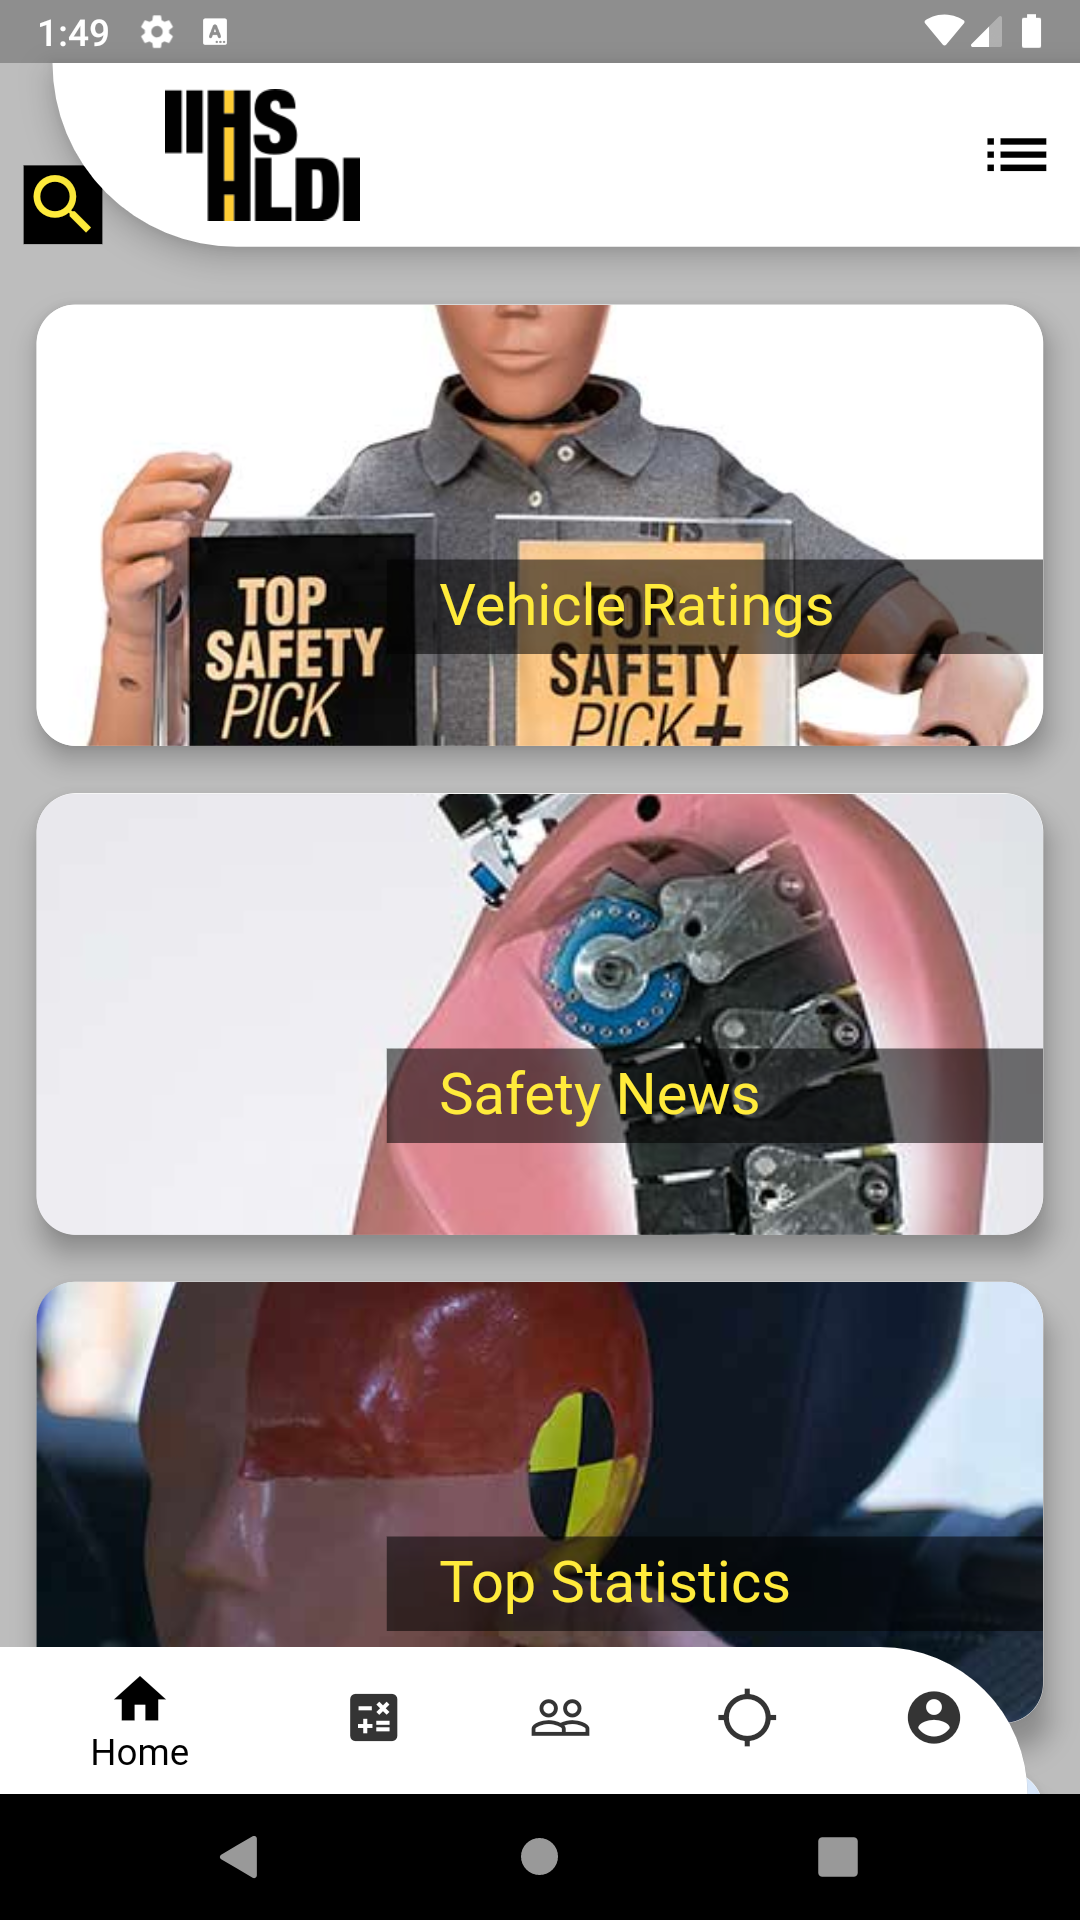
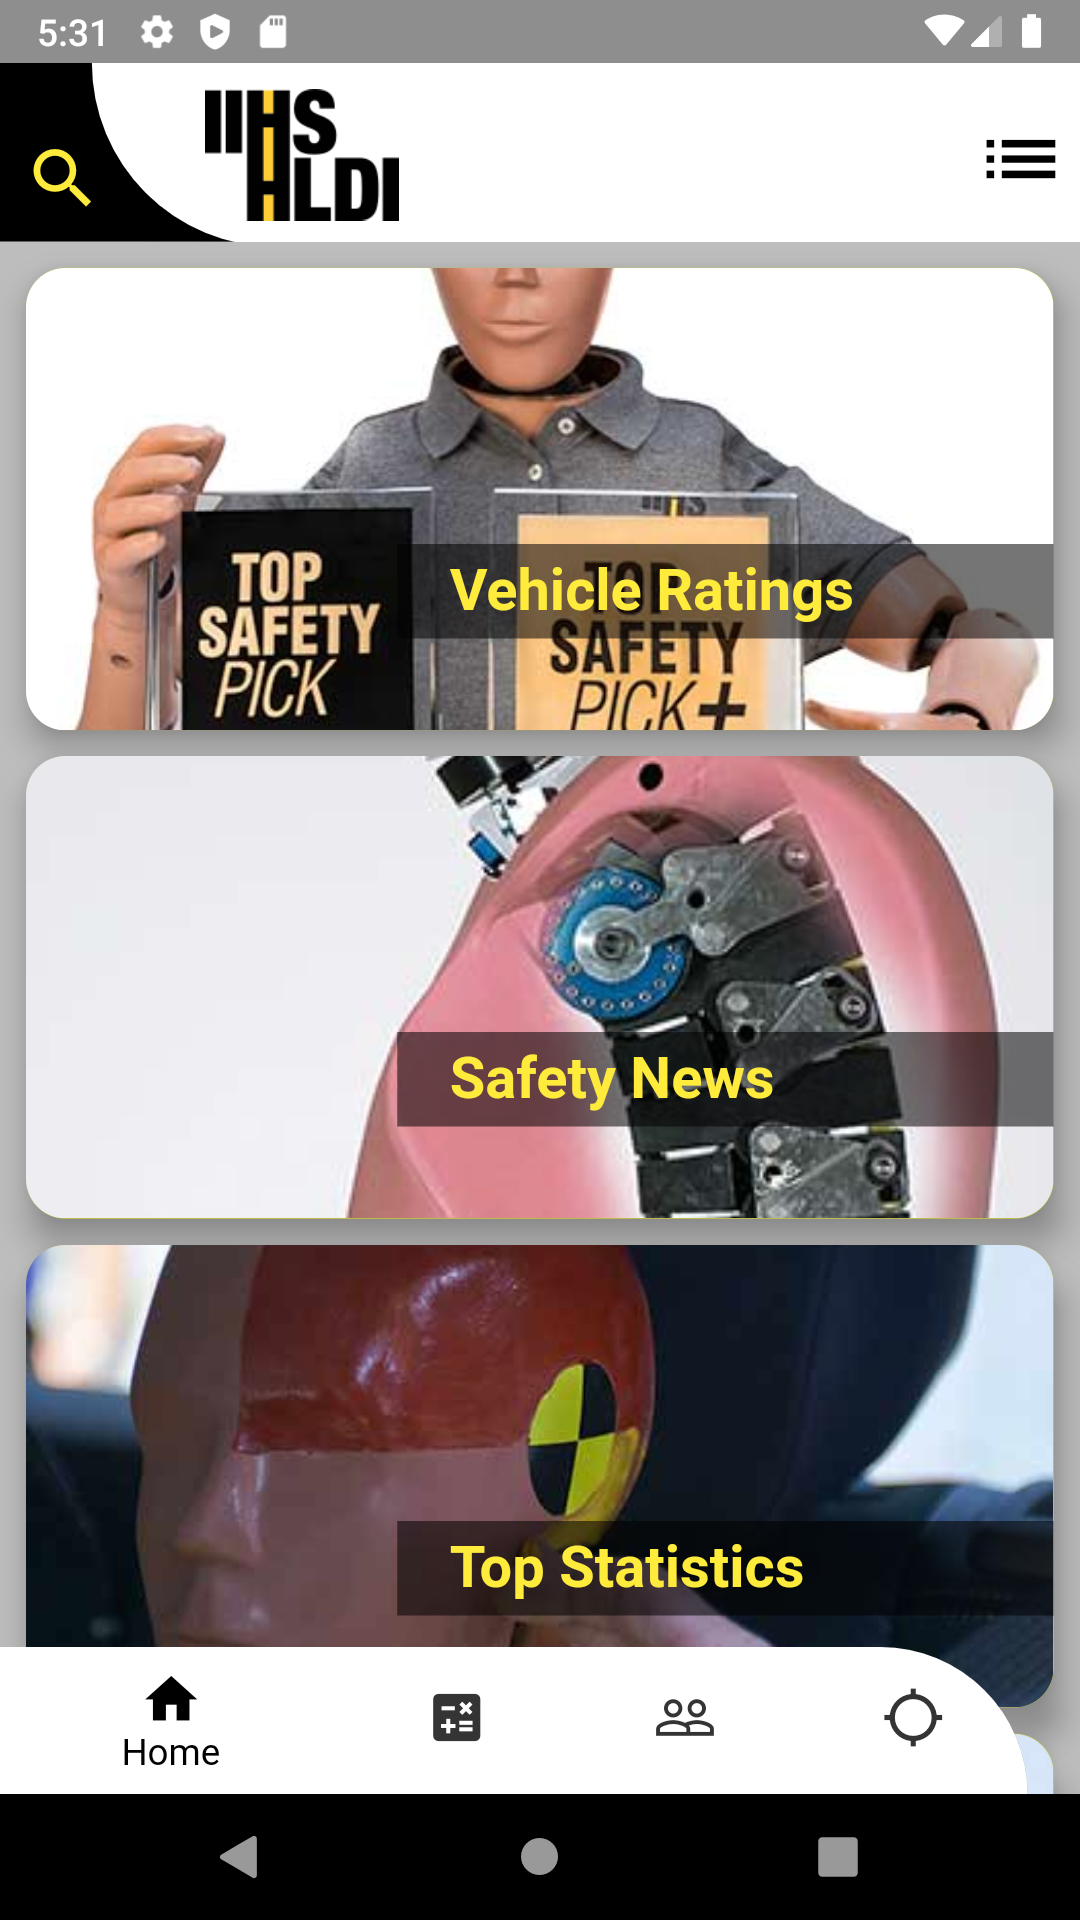
git image

diff --git a/lib/screens/root.dart b/lib/screens/root.dart
@@ -30,6 +30,7 @@ class _MyAppRootState extends State<MyAppRoot> {
               ),
               headline2: TextStyle(
                 fontSize: 22,
+                fontWeight: FontWeight.bold,
                 color: Colors.yellow,
               ),
             ),
@@ -40,7 +41,7 @@ class _MyAppRootState extends State<MyAppRoot> {
           },
         ),
       ),
-      home: CategoriesScreen(),
+      home: TabsScreen(),
       routes: {
         LoadingScreen.routeName: (ctx) => LoadingScreen(),
         TabsScreen.routeName: (ctx) => TabsScreen(),
